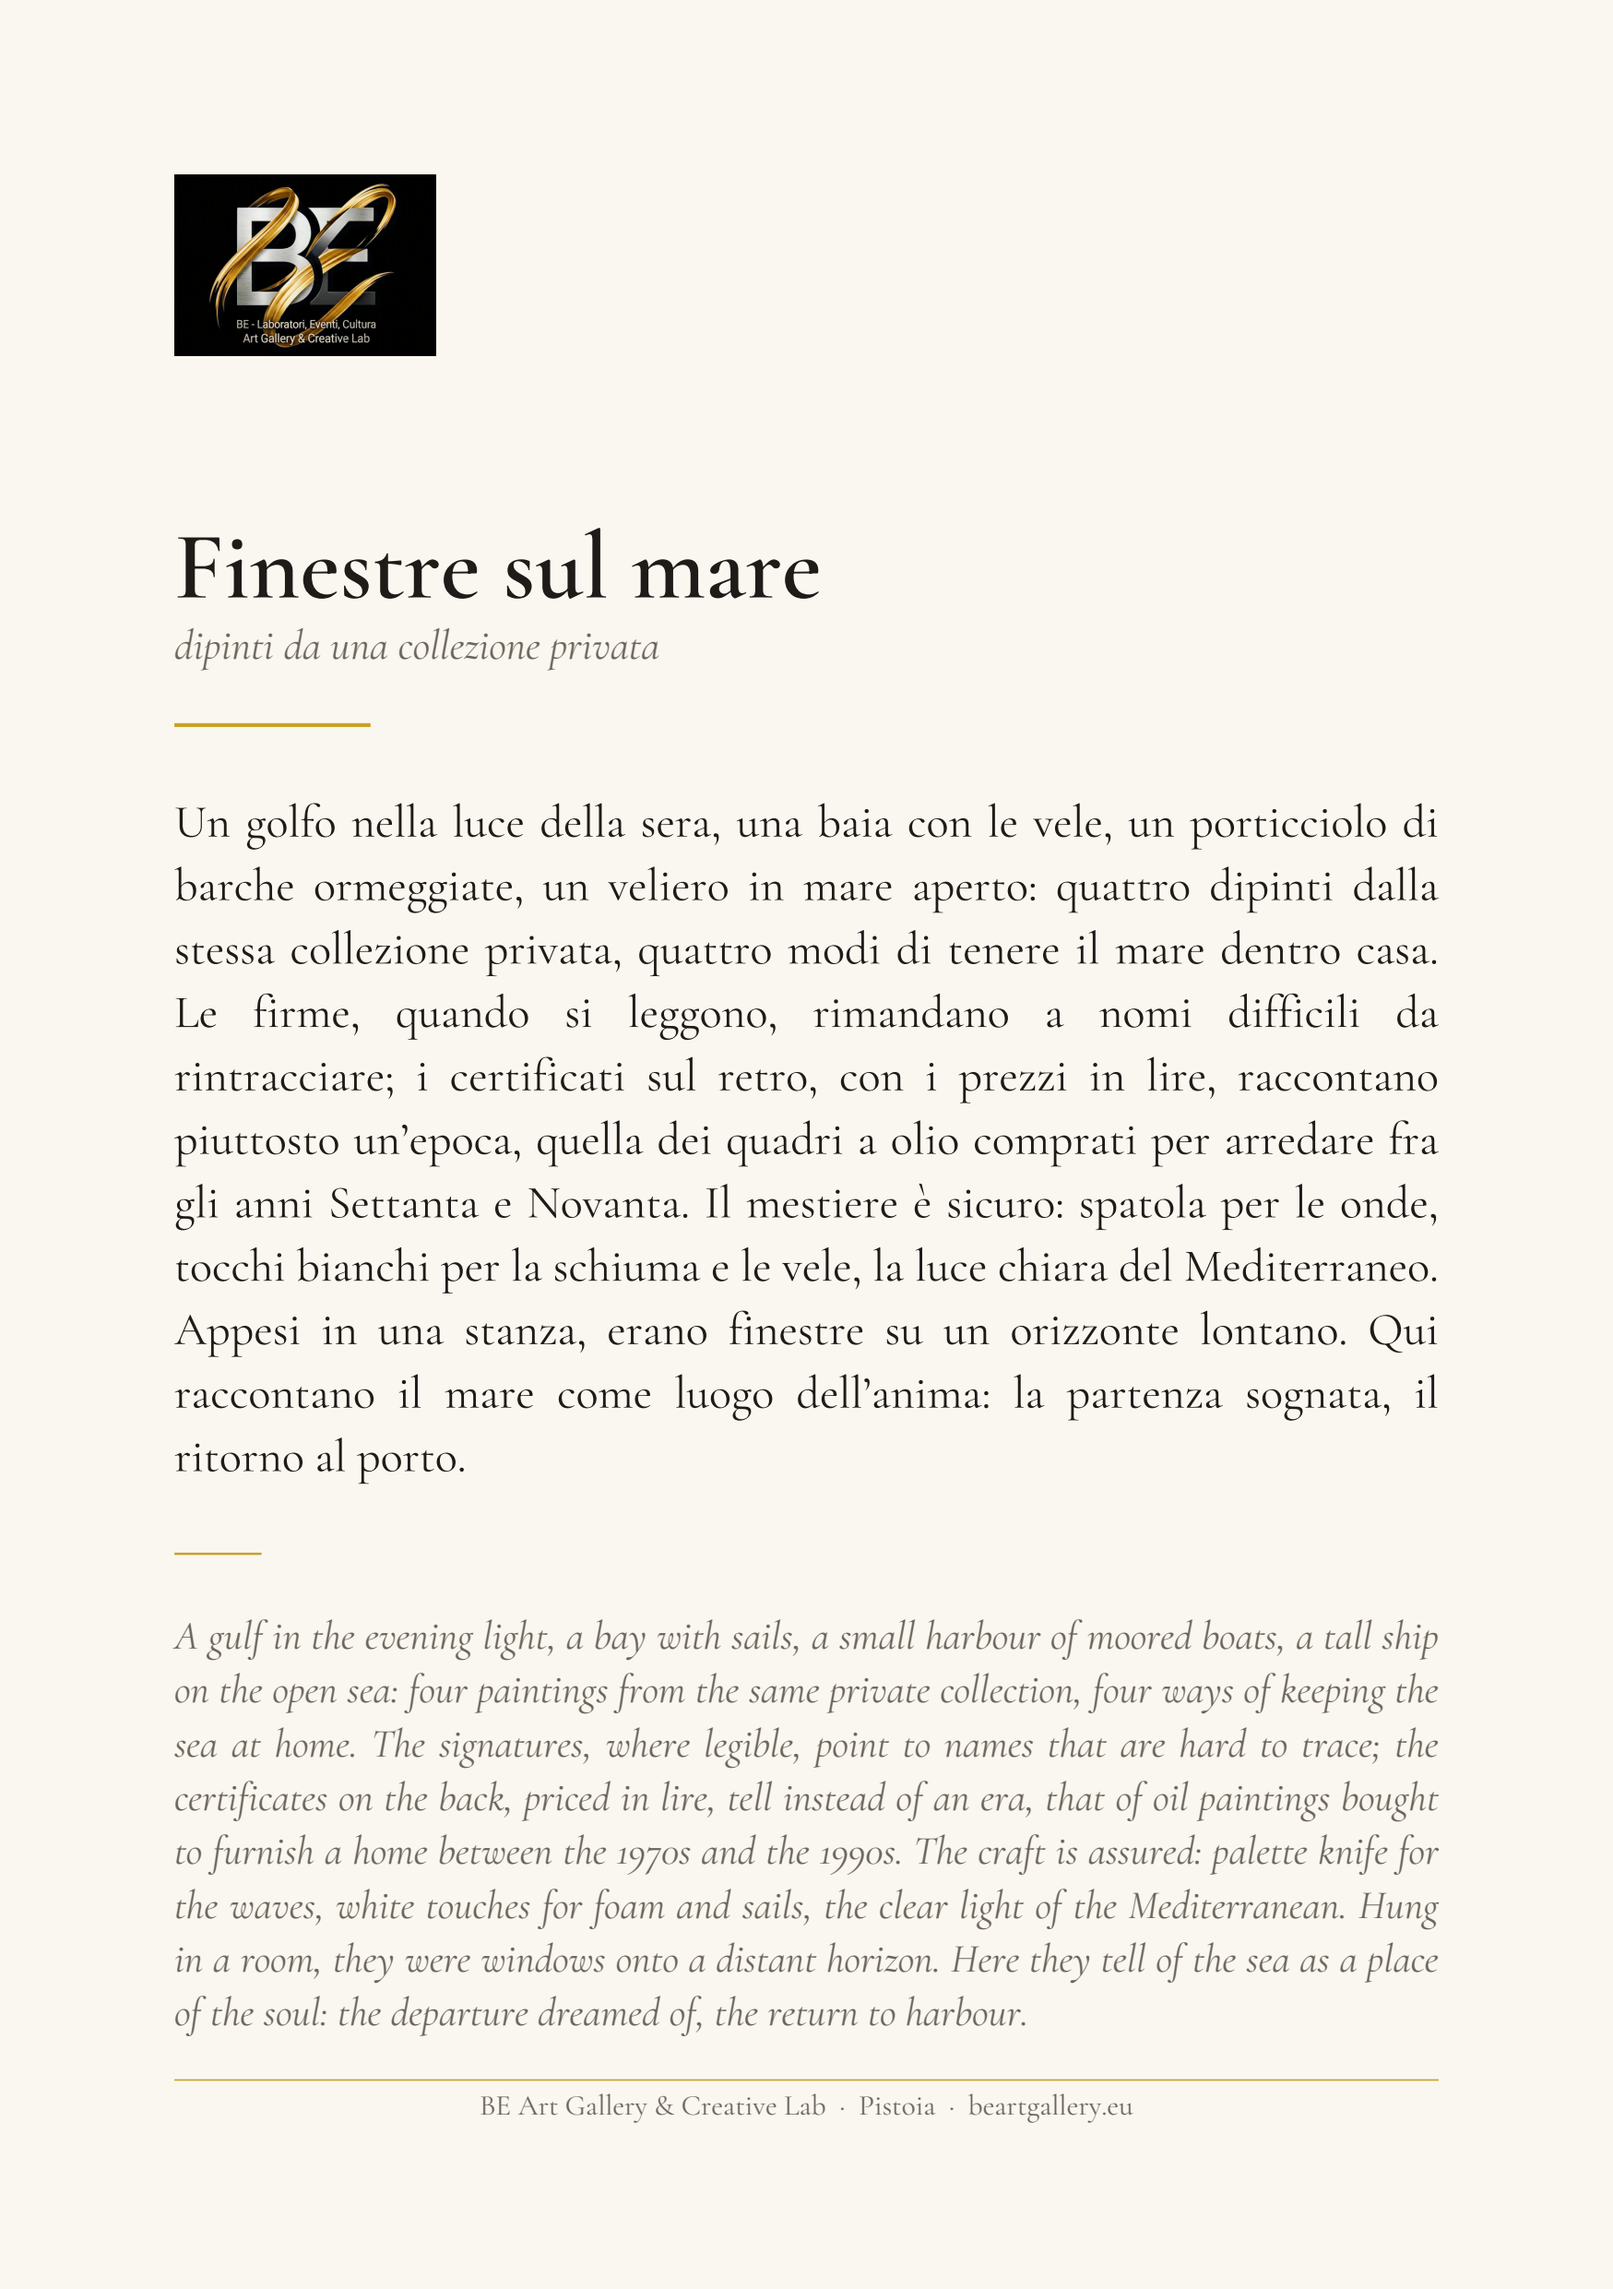
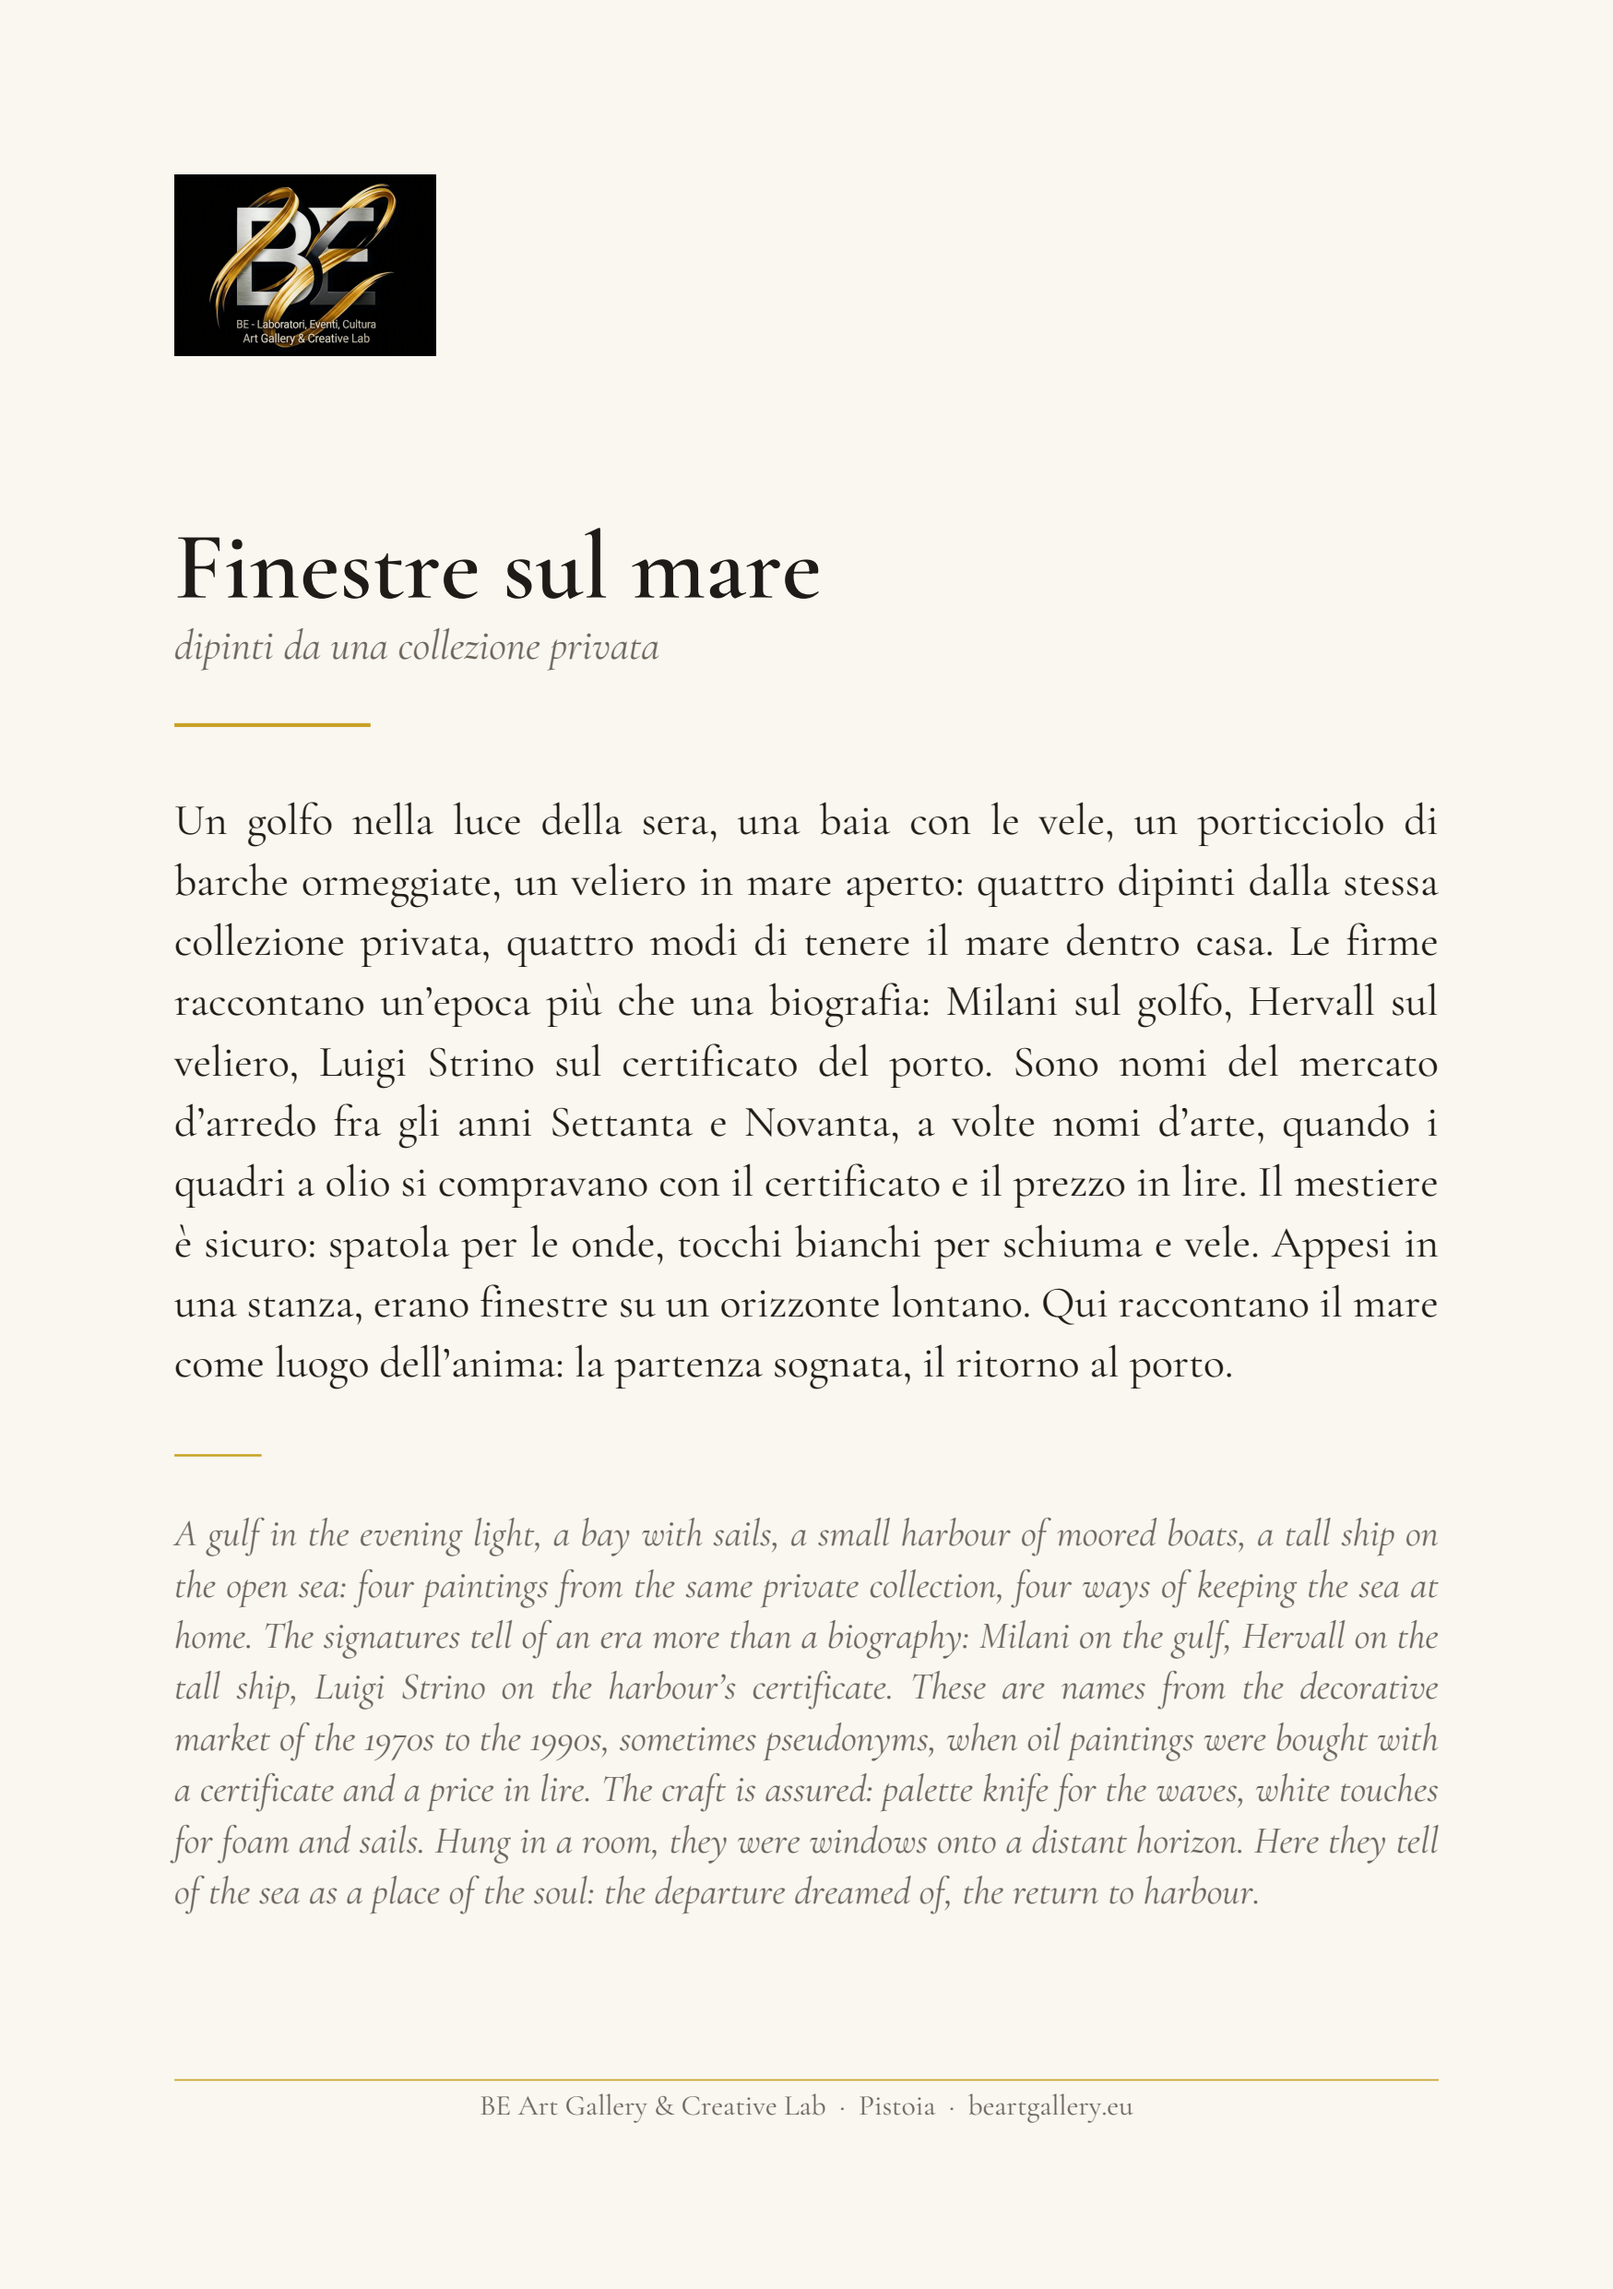
Integra in Finestre sul mare le firme lette, e adatta l'A5 ai testi lunghi
Milani, Hervall e Luigi Strino entrano nel testo come firme e nome sul
certificato; le ipotesi non verificate restano nelle note. La presentazione
riduce il corpo quanto basta perché l'inglese non sbordi sul piede.

Claude-Session: https://claude.ai/code/session_0148bZgqQiCtdshijf84M1Qp

diff --git a/strumenti/critica.py b/strumenti/critica.py
@@ -113,6 +113,12 @@ def controlla(etichetta: str, testo: str, tipo: str) -> None:
         print(f"   ⚠ {etichetta}: {n} caratteri, la procedura ne vuole {minimo}–{massimo}")
 
 
+def misura(testo: str, st: ParagraphStyle, larghezza: float) -> float:
+    """L'altezza che un paragrafo occuperebbe, senza disegnarlo."""
+    p = Paragraph(testo.replace("'", "\u2019").replace("\n", "<br/>"), st)
+    return p.wrap(larghezza, 10_000)[1]
+
+
 def scrivi(c: Canvas, testo: str, st: ParagraphStyle, x: float, y: float, larghezza: float) -> float:
     """Posa un paragrafo con il bordo superiore in y; restituisce dove finisce."""
     # Apostrofi tipografici: quello dritto della tastiera sulla carta si nota
@@ -172,16 +178,26 @@ def presentazione(scheda: dict, uscita: Path) -> Path:
     filetto(c, m, y, 18 * mm, 1)
     y -= 6 * mm
 
-    corpo = stile("it", fontSize=12, leading=16.5, alignment=TA_JUSTIFY)
+    # I testi di una serie possono superare i 600 caratteri: invece di
+    # sbordare sul piede, il corpo scende di misura quanto basta
+    fondo_utile = m + 9 + 5 * mm
+    for k in (1, 0.95, 0.9, 0.85, 0.8, 0.75):
+        corpo = stile("it", fontSize=12 * k, leading=16.5 * k, alignment=TA_JUSTIFY)
+        inglese = stile("en", fontName="Cormorant-Corsivo", fontSize=10.5 * k,
+                        leading=14 * k, textColor=GRIGIO, alignment=TA_JUSTIFY)
+        serve = misura(testi["it"], corpo, utile)
+        if testi.get("en"):
+            serve += 11 * mm * k + misura(testi["en"], inglese, utile)
+        if y - serve >= fondo_utile:
+            break
+
     y = scrivi(c, testi["it"], corpo, m, y, utile)
 
     if testi.get("en"):
-        y -= 6 * mm
+        y -= 6 * mm * k
         filetto(c, m, y, 8 * mm, 0.6)
-        y -= 5 * mm
-        scrivi(c, testi["en"], stile("en", fontName="Cormorant-Corsivo",
-               fontSize=10.5, leading=14, textColor=GRIGIO,
-               alignment=TA_JUSTIFY), m, y, utile)
+        y -= 5 * mm * k
+        scrivi(c, testi["en"], inglese, m, y, utile)
 
     piede(c, larghezza, m, m)
     c.save()

diff --git a/testi-critici/artisti/collezione-privata-mare/analisi.md b/testi-critici/artisti/collezione-privata-mare/analisi.md
@@ -8,19 +8,21 @@
 |---|---|
 | **Opere** | quattro dipinti a olio di soggetto marino, tre in cornice dorata con passe-partout, uno su tela senza cornice |
 | **Titolo della serie** | *Finestre sul mare* — proposta, da confermare |
-| **Stesura** | 8 ottobre 2026 · v1 |
+| **Stesura** | 8 ottobre 2026 · v2 |
 
 ---
 
 ## Presentazione della serie
 
-**Italiano** — _708 caratteri spazi inclusi_ · come per i *Fiori*, più lungo dei 600 della procedura: è il testo di una serie e porta i dati della ricerca
+**Italiano** — _731 caratteri spazi inclusi_ · v2, con le firme lette. Più lungo dei 600 della procedura: è il testo di una serie e porta i dati della ricerca
 
-> Un golfo nella luce della sera, una baia con le vele, un porticciolo di barche ormeggiate, un veliero in mare aperto: quattro dipinti dalla stessa collezione privata, quattro modi di tenere il mare dentro casa. Le firme, quando si leggono, rimandano a nomi difficili da rintracciare; i certificati sul retro, con i prezzi in lire, raccontano piuttosto un'epoca, quella dei quadri a olio comprati per arredare fra gli anni Settanta e Novanta. Il mestiere è sicuro: spatola per le onde, tocchi bianchi per la schiuma e le vele, la luce chiara del Mediterraneo. Appesi in una stanza, erano finestre su un orizzonte lontano. Qui raccontano il mare come luogo dell'anima: la partenza sognata, il ritorno al porto.
+> Un golfo nella luce della sera, una baia con le vele, un porticciolo di barche ormeggiate, un veliero in mare aperto: quattro dipinti dalla stessa collezione privata, quattro modi di tenere il mare dentro casa. Le firme raccontano un'epoca più che una biografia: Milani sul golfo, Hervall sul veliero, Luigi Strino sul certificato del porto. Sono nomi del mercato d'arredo fra gli anni Settanta e Novanta, a volte nomi d'arte, quando i quadri a olio si compravano con il certificato e il prezzo in lire. Il mestiere è sicuro: spatola per le onde, tocchi bianchi per schiuma e vele. Appesi in una stanza, erano finestre su un orizzonte lontano. Qui raccontano il mare come luogo dell'anima: la partenza sognata, il ritorno al porto.
 
-**English** — _695 characters_
+**English** — _742 characters_
 
-> A gulf in the evening light, a bay with sails, a small harbour of moored boats, a tall ship on the open sea: four paintings from the same private collection, four ways of keeping the sea at home. The signatures, where legible, point to names that are hard to trace; the certificates on the back, priced in lire, tell instead of an era, that of oil paintings bought to furnish a home between the 1970s and the 1990s. The craft is assured: palette knife for the waves, white touches for foam and sails, the clear light of the Mediterranean. Hung in a room, they were windows onto a distant horizon. Here they tell of the sea as a place of the soul: the departure dreamed of, the return to harbour.
+> A gulf in the evening light, a bay with sails, a small harbour of moored boats, a tall ship on the open sea: four paintings from the same private collection, four ways of keeping the sea at home. The signatures tell of an era more than a biography: Milani on the gulf, Hervall on the tall ship, Luigi Strino on the harbour's certificate. These are names from the decorative market of the 1970s to the 1990s, sometimes pseudonyms, when oil paintings were bought with a certificate and a price in lire. The craft is assured: palette knife for the waves, white touches for foam and sails. Hung in a room, they were windows onto a distant horizon. Here they tell of the sea as a place of the soul: the departure dreamed of, the return to harbour.
+
+**v1, senza nomi** — Un golfo nella luce della sera, una baia con le vele, un porticciolo di barche ormeggiate, un veliero in mare aperto: quattro dipinti dalla stessa collezione privata, quattro modi di tenere il mare dentro casa. Le firme, quando si leggono, rimandano a nomi difficili da rintracciare; i certificati sul retro, con i prezzi in lire, raccontano piuttosto un'epoca, quella dei quadri a olio comprati per arredare fra gli anni Settanta e Novanta. Il mestiere è sicuro: spatola per le onde, tocchi bianchi per la schiuma e le vele, la luce chiara del Mediterraneo. Appesi in una stanza, erano finestre su un orizzonte lontano. Qui raccontano il mare come luogo dell'anima: la partenza sognata, il ritorno al porto.
 
 **Variante breve per il pannello** — _209 caratteri_
 
@@ -39,8 +41,28 @@
 | **il porticciolo** — barche ormeggiate al molo, case con tende, montagne innevate | in basso a sinistra, parziale: «L. S…» | «Certificato di garanzia — Dipinto eseguito a mano / Hand painted / Peint à la main», con timbri; alla voce *Pittore* a penna «Luigi S…» o «Lucia S…», non leggibile per intero; misure sbiadite | spatola in rilievo per muri e molo, colori pastello, riflessi a pennellate verticali |
 | **il veliero** — tre alberi a vele spiegate, gabbiani, mare mosso | in basso a destra: «Harvall» o simile | «Liceo art. "Orsoline" di Milano — Accademia di Belle Arti di Brera di Milano — Certificato di garanzia e valutazione — dipinto originale lavorato ad olio su tela». Firma garantita «Harvall»; soggetto «Veliero»; 30 × 40; alla voce del prezzo una sigla, «S.G.A.» | marina di genere, accurata nel sartiame; cielo sfumato, onde a colpi bianchi |
 
-> L'abbinamento del certificato «Luigi/Lucia S…» al porticciolo è una
-> deduzione dalla firma «L. S…»: **da confermare con Elena**.
+### Le letture di Google AI Mode, portate da Elena
+Elena ha interrogato anche la ricerca di Google in modalità AI. Le letture
+coincidono con le mie dove la foto lo permette, e le completano:
+
+| Opera | Lettura | Accordo con l'analisi diretta | Nel testo |
+|---|---|---|---|
+| il golfo | firma **«Milani»** | compatibile: avevo letto una «M» iniziale e un finale in «-ani» | sì, come firma |
+| la baia | nessuna firma, stesura a spatola | coincide | — |
+| il porticciolo | certificato: **«Luigi Strino»** | compatibile: avevo letto «Luigi S…», e la firma sul fronte «L. S…» | sì, come nome sul certificato |
+| il veliero | firma e certificato: **«Hervall»** | avevo letto «Harvall»: la grafia della seconda lettera è incerta | sì, nella forma «Hervall» |
+
+**Le affermazioni non verificate restano fuori dal testo**, anche se
+plausibili:
+- che il nome «Milani» sia associato a una produzione di paesaggi lacustri e
+  marini d'arredo: AI Mode cita un solo annuncio di vendita
+- che «Luigi Strino» sia legato alla famiglia o alla bottega di **Gianni
+  Strino**, pittore napoletano: è un'ipotesi di AI Mode, senza fonte diretta.
+  Se si verificasse, il porticciolo avrebbe un legame con Napoli, come
+  *Casolari amalfitani* di Apicella
+- che «Hervall» fosse uno pseudonimo usato in laboratori lombardi e che il
+  certificato Orsoline/Brera indicasse una vera formazione accademica: non c'è
+  una fonte. Il testo dice solo «a volte nomi d'arte», che vale per il genere
 
 ### Cosa dicono i certificati
 - sono **documenti commerciali**, non perizie: attestano che il dipinto è a
